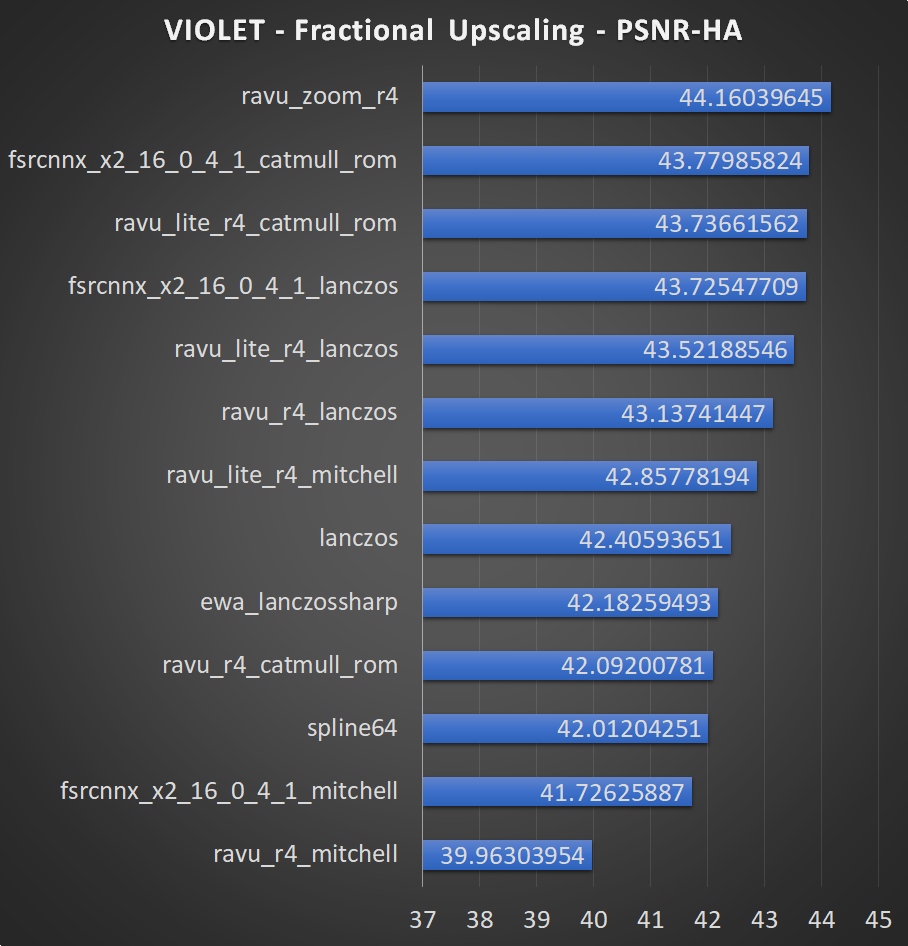
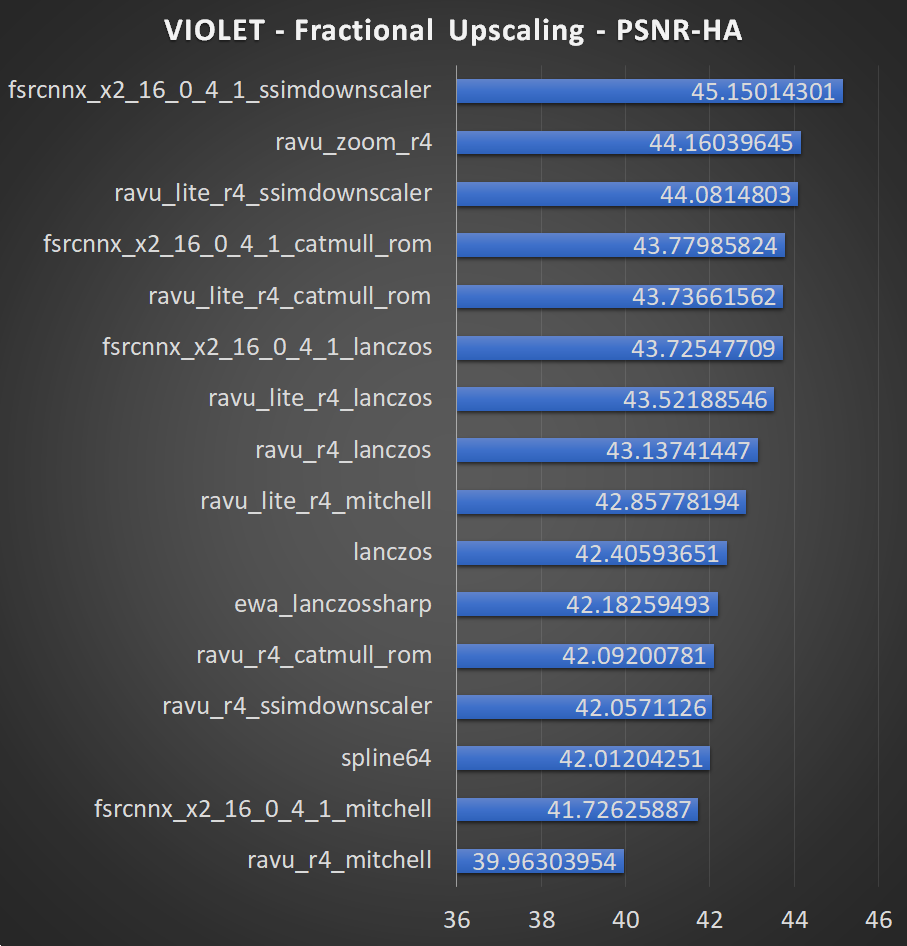
Updating SSimDownscaler in fractional

diff --git a/mpv_upscaling.html b/mpv_upscaling.html
@@ -310,8 +310,8 @@
               </div>
         </p>
         <p>
-            We can see that ravu-zoom-r4 scores the highest. Using FSRCNNX alongside a downscaler makes the end result either too blurry or too sharp, hurting its performance. Ravu-zoom produces more ringing artifacts, so I'd personally recommend a subjective analysis 
-            before choosing one solely by the numbers. 
+            As expected, the doublers perform relatively poorly alongside built-in scalers. Ravu-zoom is the best stand-alone scaler, but it gets beaten by ravu-lite and FSRCNNX when those are used with SSimDownscaler. I originally only wanted to include the 
+            best version of each shader, but FSRCNNX_x2_8-0-4-1 will need to be included soon since the peformance disparity between FSRCNNX_x2_8-0-4-1 + SSimDownscaler and Ravu-zoom-r4 is just too high.
         </p>
     </section>
     <section>
